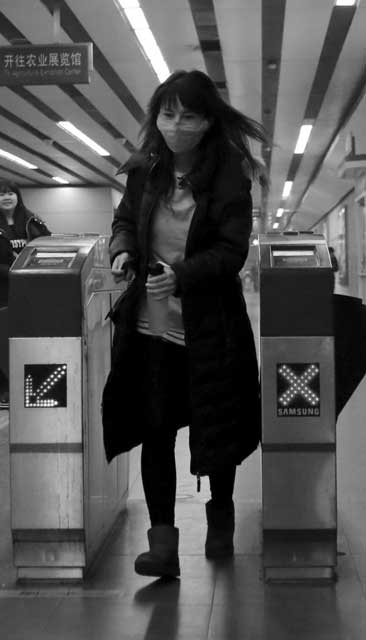
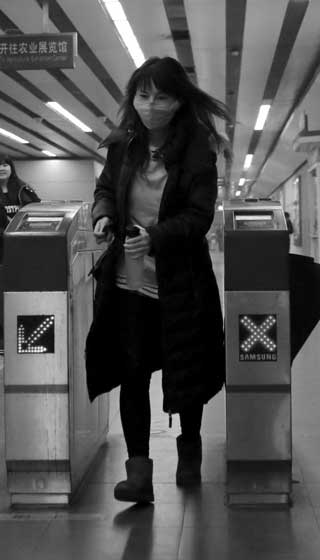
New header image for riyadh

diff --git a/src/css/_header-area.scss b/src/css/_header-area.scss
@@ -92,7 +92,7 @@ $standy-grad: linear-gradient(0deg, $grad1, $grad1);
 }
 
 .gv-header-list li:first-child{
-    background: url('<%= path %>/assets/city-pics/tehran.jpg'), $background-grad;
+    background: url('<%= path %>/assets/city-pics/riyadh.jpg'), $background-grad;
     background-size: auto 100%;
     background-position: center center;
     background-repeat: no-repeat;

diff --git a/src/templates/main.html b/src/templates/main.html
@@ -6,7 +6,7 @@
 				<ul class="gv-header-list">
 					<li>
 						<div class="gv-header-list-text">
-						Tehran
+						Riyadh
 						</div>
 					</li>
 					<li>
